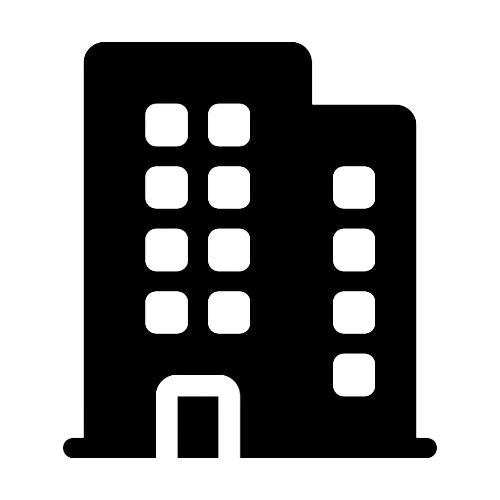
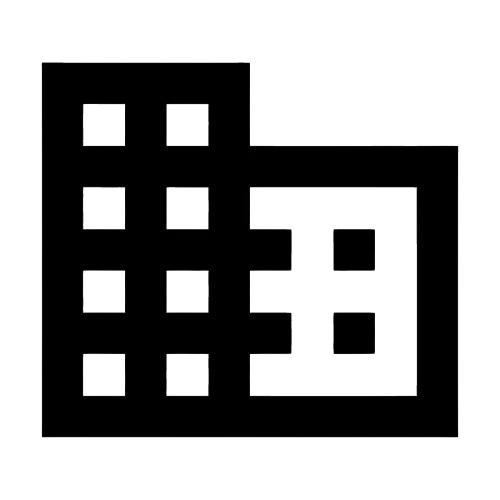
Aku mengubah beberapa hal yaa

diff --git a/css/beranda.css b/css/beranda.css
@@ -23,8 +23,6 @@ body {
   background-color: #6fa8a4;
 }
 
-
-
 .logotext {
   display: flex;
   flex-direction: column;
@@ -140,7 +138,7 @@ body {
   align-items: center;
   justify-content: center;
   border-radius: 20px;
-  box-shadow: 4px 4px 0px 0px rgba(0, 0, 0, 0.7);
+  box-shadow: 4px 4px 0px 0px rgba(0, 0, 0, 1);
 }
 
 .btn-wrapper {
@@ -168,7 +166,7 @@ body {
   background: #F2F2F2;
   padding: 20px;
   border: 3px solid black;
-  box-shadow: 6px 6px 0px 0px rgba(0, 0, 0, 0.2);
+  box-shadow: 6px 6px 0px 0px rgba(0, 0, 0, 1);
   border-radius: 16px;
   width: 100%;
 }
@@ -183,13 +181,12 @@ body {
 .sambutan-teks h3 {
   font-family: 'inter', sans-serif;
   font-size: 24px;
-  font-weight: 368;
+  font-weight: bold;
   color: #000000;
   display: flex;
   flex-direction: column;
   gap: 4px;
   width: fit-content;
-  border-bottom: 2px solid #000000;
   padding-bottom: 8px;
 }
 
@@ -198,6 +195,11 @@ body {
   font-size: 15px;
   line-height: 1.8;
   color: #000000;
+}
+.kepalasekolah {
+  font-family: 'inter', sans-serif;
+  border-bottom: 2px solid #000000;
+  margin-top: -10px;
 }
 
 .nama-kepsek {
@@ -224,10 +226,10 @@ body {
 .kegiatan-judul h2 {
   font-family: 'Poppins', sans-serif;
   font-size: 28px;
-  font-weight: 500;
+  font-weight: 600;
   color: #000;
   border: 3px solid #000;
-  border-radius: 25px;
+  border-radius: 20px;
   padding: 5px 0;
   background: #f2f2f2;
   width: 100%;
@@ -247,6 +249,9 @@ body {
   border-radius: 16px;
   overflow: visible;
   box-shadow: 8px 8px 0px rgba(0, 0, 0, 0.2);
+  margin-bottom: 80px;
+  margin-left: 50px;
+  margin-right: 50px;
 }
 
 .kegiatan-card img {
@@ -342,6 +347,7 @@ body {
   display: flex;
   align-items: center;
   justify-content: center;
+  margin-bottom: 100px;
 }
 
 .cards-wrapper {
@@ -399,7 +405,6 @@ body {
 /*   SECTION TITLE (SHARED)         */
 /* ================================ */
 .section-title-box {
-  cursor: pointer;
   border: 2px solid #000;
   border-radius: 50px;
   padding: 10px 30px;
@@ -409,11 +414,6 @@ body {
   box-shadow: 4px 4px 0px rgb(0, 0, 0, 2);
   background-color: white;
   transition: all 0.1s ease;
-}
-
-.section-title-box:hover {
-  background-color: #C9C9C9;
-  transform: translate(4px, 4px);
 }
 
 .section-title-box h2 {
@@ -525,7 +525,7 @@ body {
 
 .alumni-card:hover {
   background-color: #C9C9C9;
-  transform: translate(4px, 4px);
+  transform: translateY(-5px);
 }
 
 .alumni-badge {
@@ -543,7 +543,7 @@ body {
 
 .alumni-badge:hover {
   background-color: #C9C9C9;
-  transform: translate(4px, 4px);
+  transform: translate(4px, 4px); 
 }
 
 .alumni-text {
@@ -591,6 +591,7 @@ body {
 .footer {
   background-color: #004b49;
   padding: 28px 80px;
+  margin-top: -20px;
 }
 
 .top-row {

diff --git a/index.html b/index.html
@@ -333,7 +333,7 @@
 
     <nav>
         <a href="" class="brand">
-            <img src="assets/img/logo.jpeg" alt="Logo MTS Darussalam" />
+            <img src="assets/img/logomts.jpeg" alt="Logo MTS Darussalam" />
             <div class="logotext">
                 <p class="tulisan1">MTS</p>
                 <p class="tulisan2">Darussalam</p>
@@ -394,6 +394,7 @@
             </div>
             <div class="sambutan-teks">
                 <h3>Mochamad Syahid S.HI</h3>
+                <p class="kepalasekolah">Kepala Sekolah</p>
                 <p>Assalamu'alaikum Wr. Wb.</p>
                 <p>Puji syukur ke hadirat Allah SWT atas rahmat dan karunia-Nya sehingga website SMK SMF Indonesia
                     Yogyakarta dapat hadir sebagai sarana informasi dan media pembelajaran. Kami mengharapkan masukan
@@ -405,11 +406,11 @@
         <div class="btn-wrapper">
             <a href="profil.html" class="btn-hero">Lihat Profil Sekolah</a>
         </div>
-        <hr style="border: 0.1px solid black; margin: 0;margin-top: 60px;">
+        <hr style="border: 0.1px solid black; margin: 0;margin-top: 70px; opacity: 0.5;">
     </section>
     <section id="kegiatan">
         <div class="kegiatan-judul">
-            <h2>KEGIATAN KEGIATAN</h2>
+            <h2>KEGIATAN-KEGIATAN</h2>
         </div>
         <div class="kegiatan-grid">
             <div class="kegiatan-card">
@@ -436,7 +437,6 @@
                 <p>Pramuka adalah kegiatan yang melatih disiplin, kemandirian, dan kepemimpinan melalui kegiatan positif.</p>
             </div>
         </div>
-        <hr style="border: 0.1px solid black; margin: 0; margin-top: 150px;">
         <!--   SECTION HERO / STAT    -->
         <section class="section-hero">
             <div class="cards-wrapper">
@@ -451,7 +451,7 @@
                     <p class="stat-label">Total Guru</p>
                 </div>
                 <div class="stat-card">
-                    <img src="img/fasilitas.png" alt="Total Fasilitas">
+                    <img src="assets/img/fasilitas.png" alt="Total Fasilitas">
                     <p class="stat-number">9</p>
                     <p class="stat-label">Total Fasilitas</p>
                 </div>
@@ -496,13 +496,11 @@
 
     </div> -->
 <!-- </section> -->
-        <hr style="border: 0.1px solid black; margin: 0; margin-bottom: 45px;">
         <!--   SECTION UCAP ALUMNI    -->
         <section class="section-alumni">
             <div class="section-title-box">
                 <h2>UCAP ALUMNI</h2>
             </div>
-
             <div class="alumni-grid">
 
                 <!-- Alumni 1 -->
@@ -549,14 +547,9 @@
                         </div>
                     </div>
                 </div>
-
             </div>
-
-            
         </section>
-
-        <hr style="border: 0.1px solid black; margin: 0; margin-bottom: 10px;">
-        
+        <hr style="border: 0.1px solid black; margin: 0; margin-top: 45px;opacity: 0.5;">
          </section>
           <footer class="footer">
     <!-- TOP ROW: Logo + Visi -->